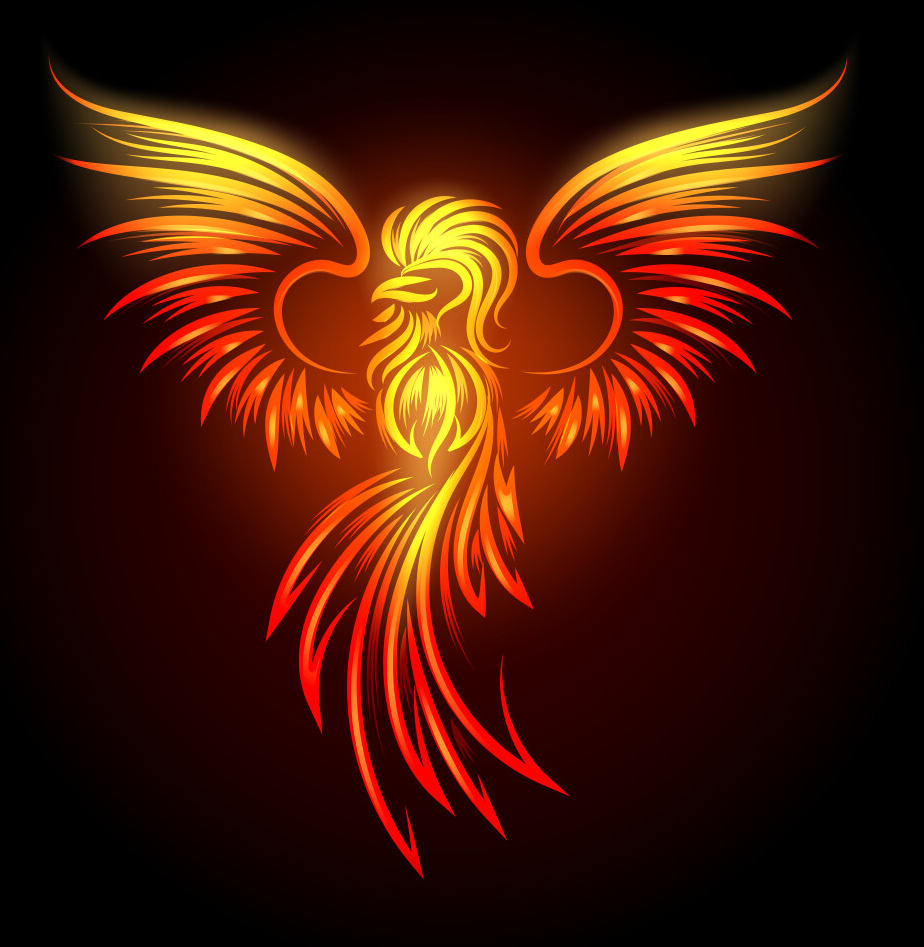
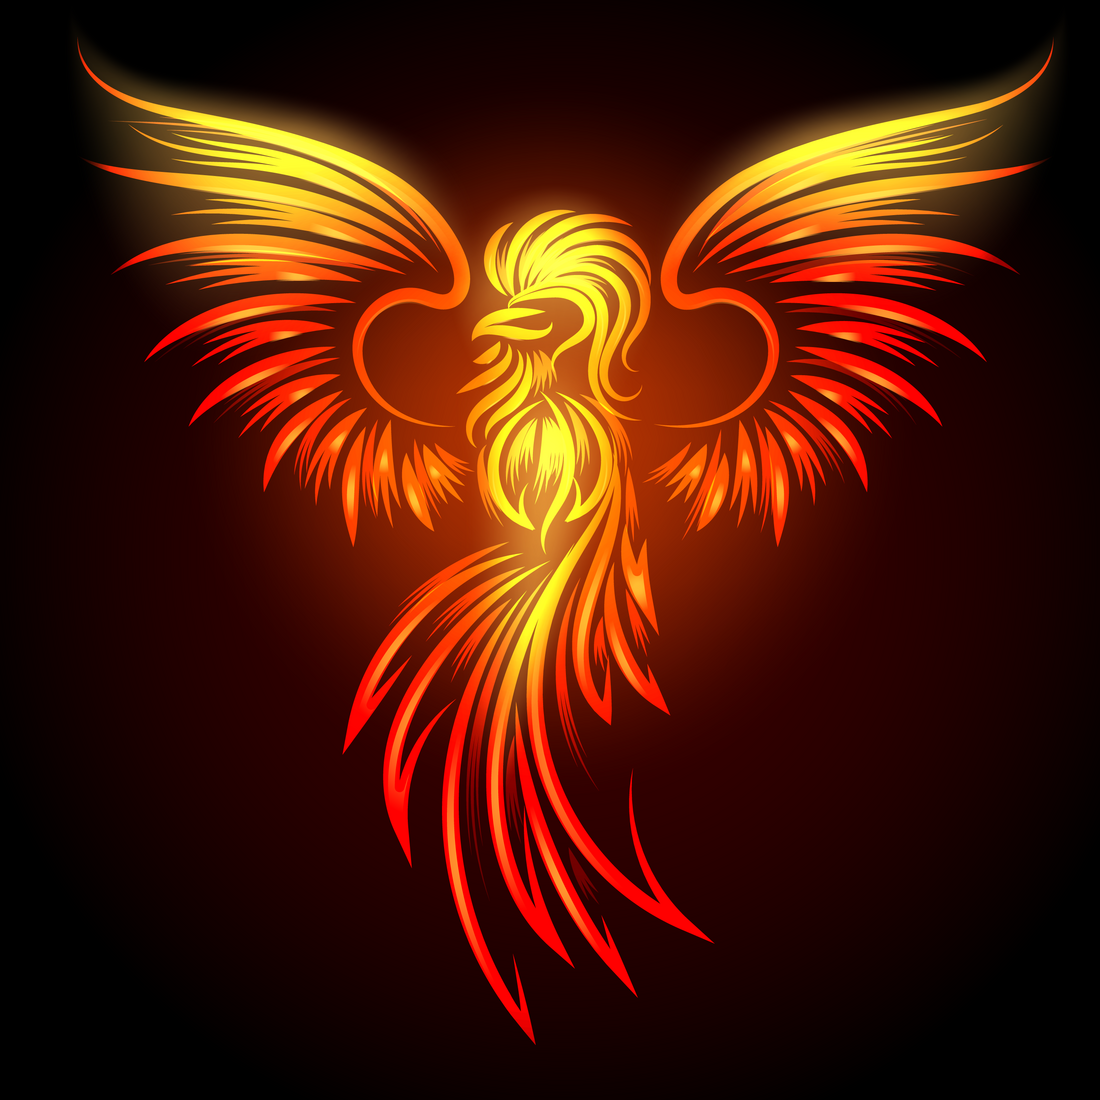
feat(manager): the About tab's phoenix from the licensed artwork at 1100 pixels, and its licence line at the foot of the page in three languages

Changed region(s): [[0.0303, 0.0306, 0.9697, 0.9493], [0.6061, 0.8268, 0.6364, 0.8574]]

diff --git a/plugin/manager/manage.html b/plugin/manager/manage.html
@@ -1061,6 +1061,7 @@
       cursor: zoom-in;
     }
 
+    .about-licence { margin: 18px 0 4px; color: #9a9aa0; font-size: 12px; line-height: 1.5; }
     .about-logo img {
       display: block;
       width: 100%;
@@ -1815,6 +1816,7 @@
           </article>
         </div>
       </section>
+      <p class="about-licence" id="about-licence"></p>
     </section>
   </div>
 
@@ -1995,6 +1997,7 @@
         $('about-evo-desc').textContent = t('MANAGER_ABOUT_EVO_DESC');
         $('about-framework-desc').textContent = t('MANAGER_ABOUT_FRAMEWORK_DESC');
         $('about-support-title').textContent = t('MANAGER_ABOUT_SUPPORT');
+        $('about-licence').textContent = t('MANAGER_ABOUT_LOGO_LICENCE');
         $('about-kofi-desc').textContent = t('MANAGER_ABOUT_KOFI_DESC');
         $('about-sponsors-desc').textContent = t('MANAGER_ABOUT_SPONSORS_DESC');
         document.querySelectorAll('[data-about-string]').forEach(function (el) { el.textContent = t(el.dataset.aboutString); });
